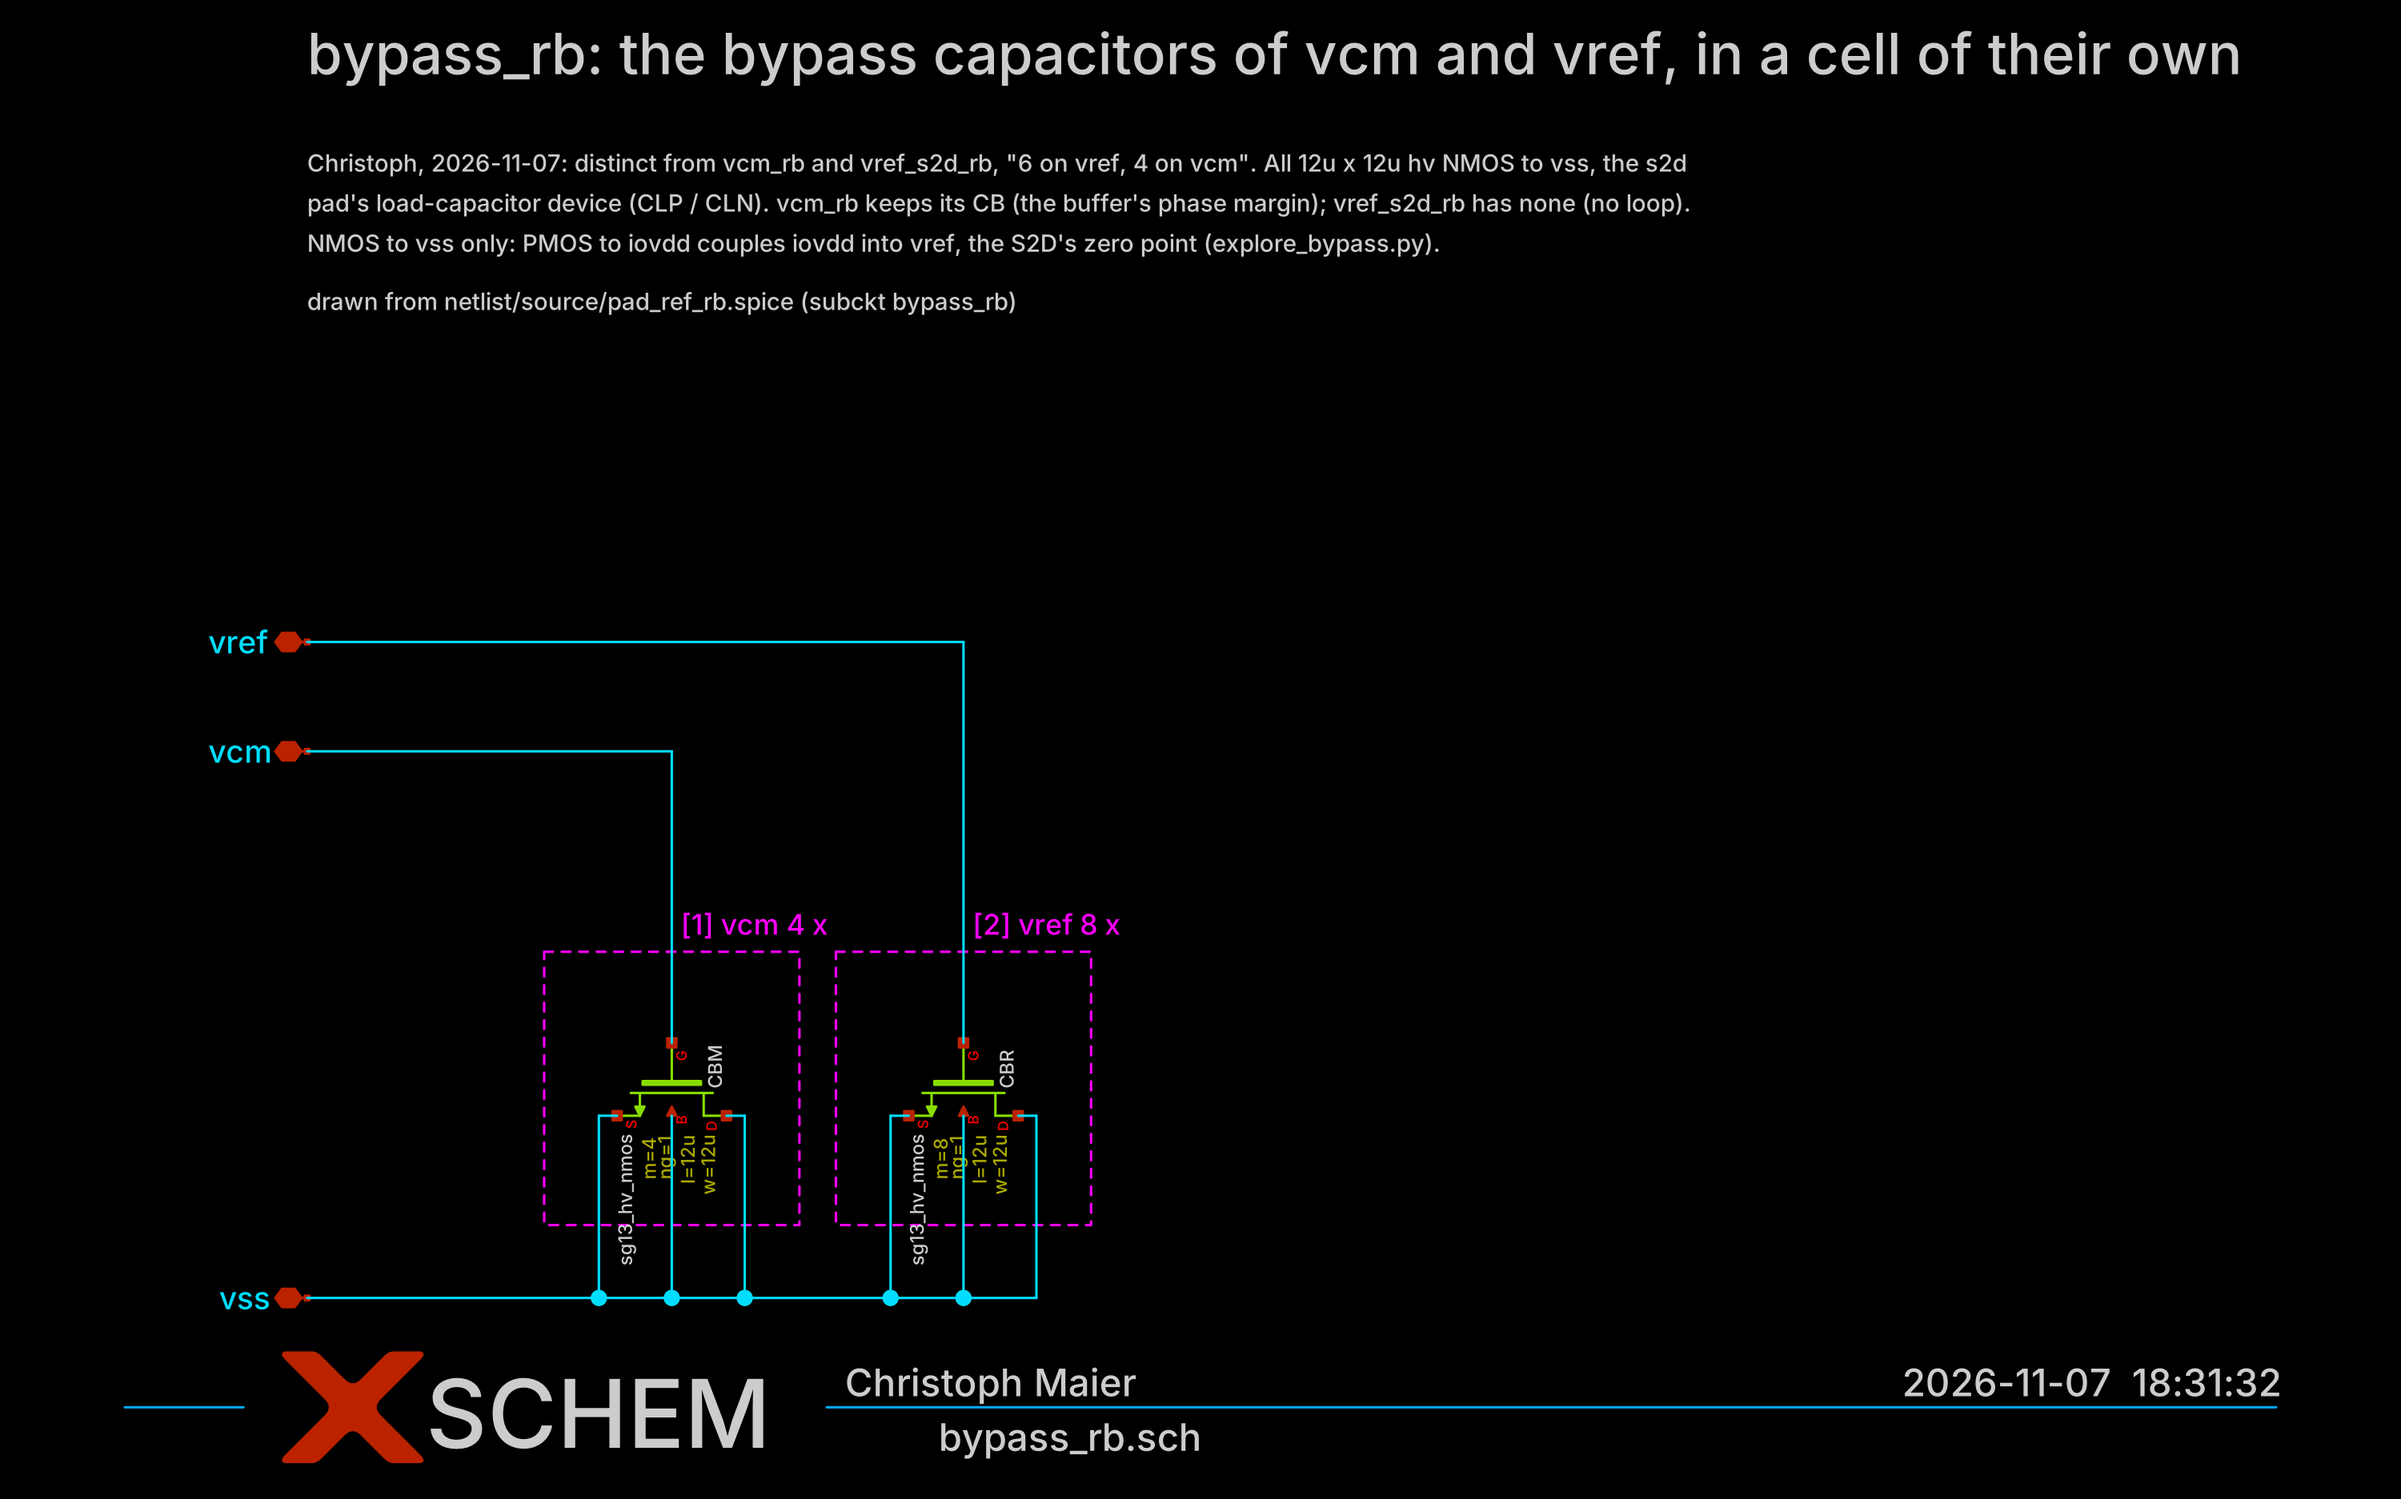
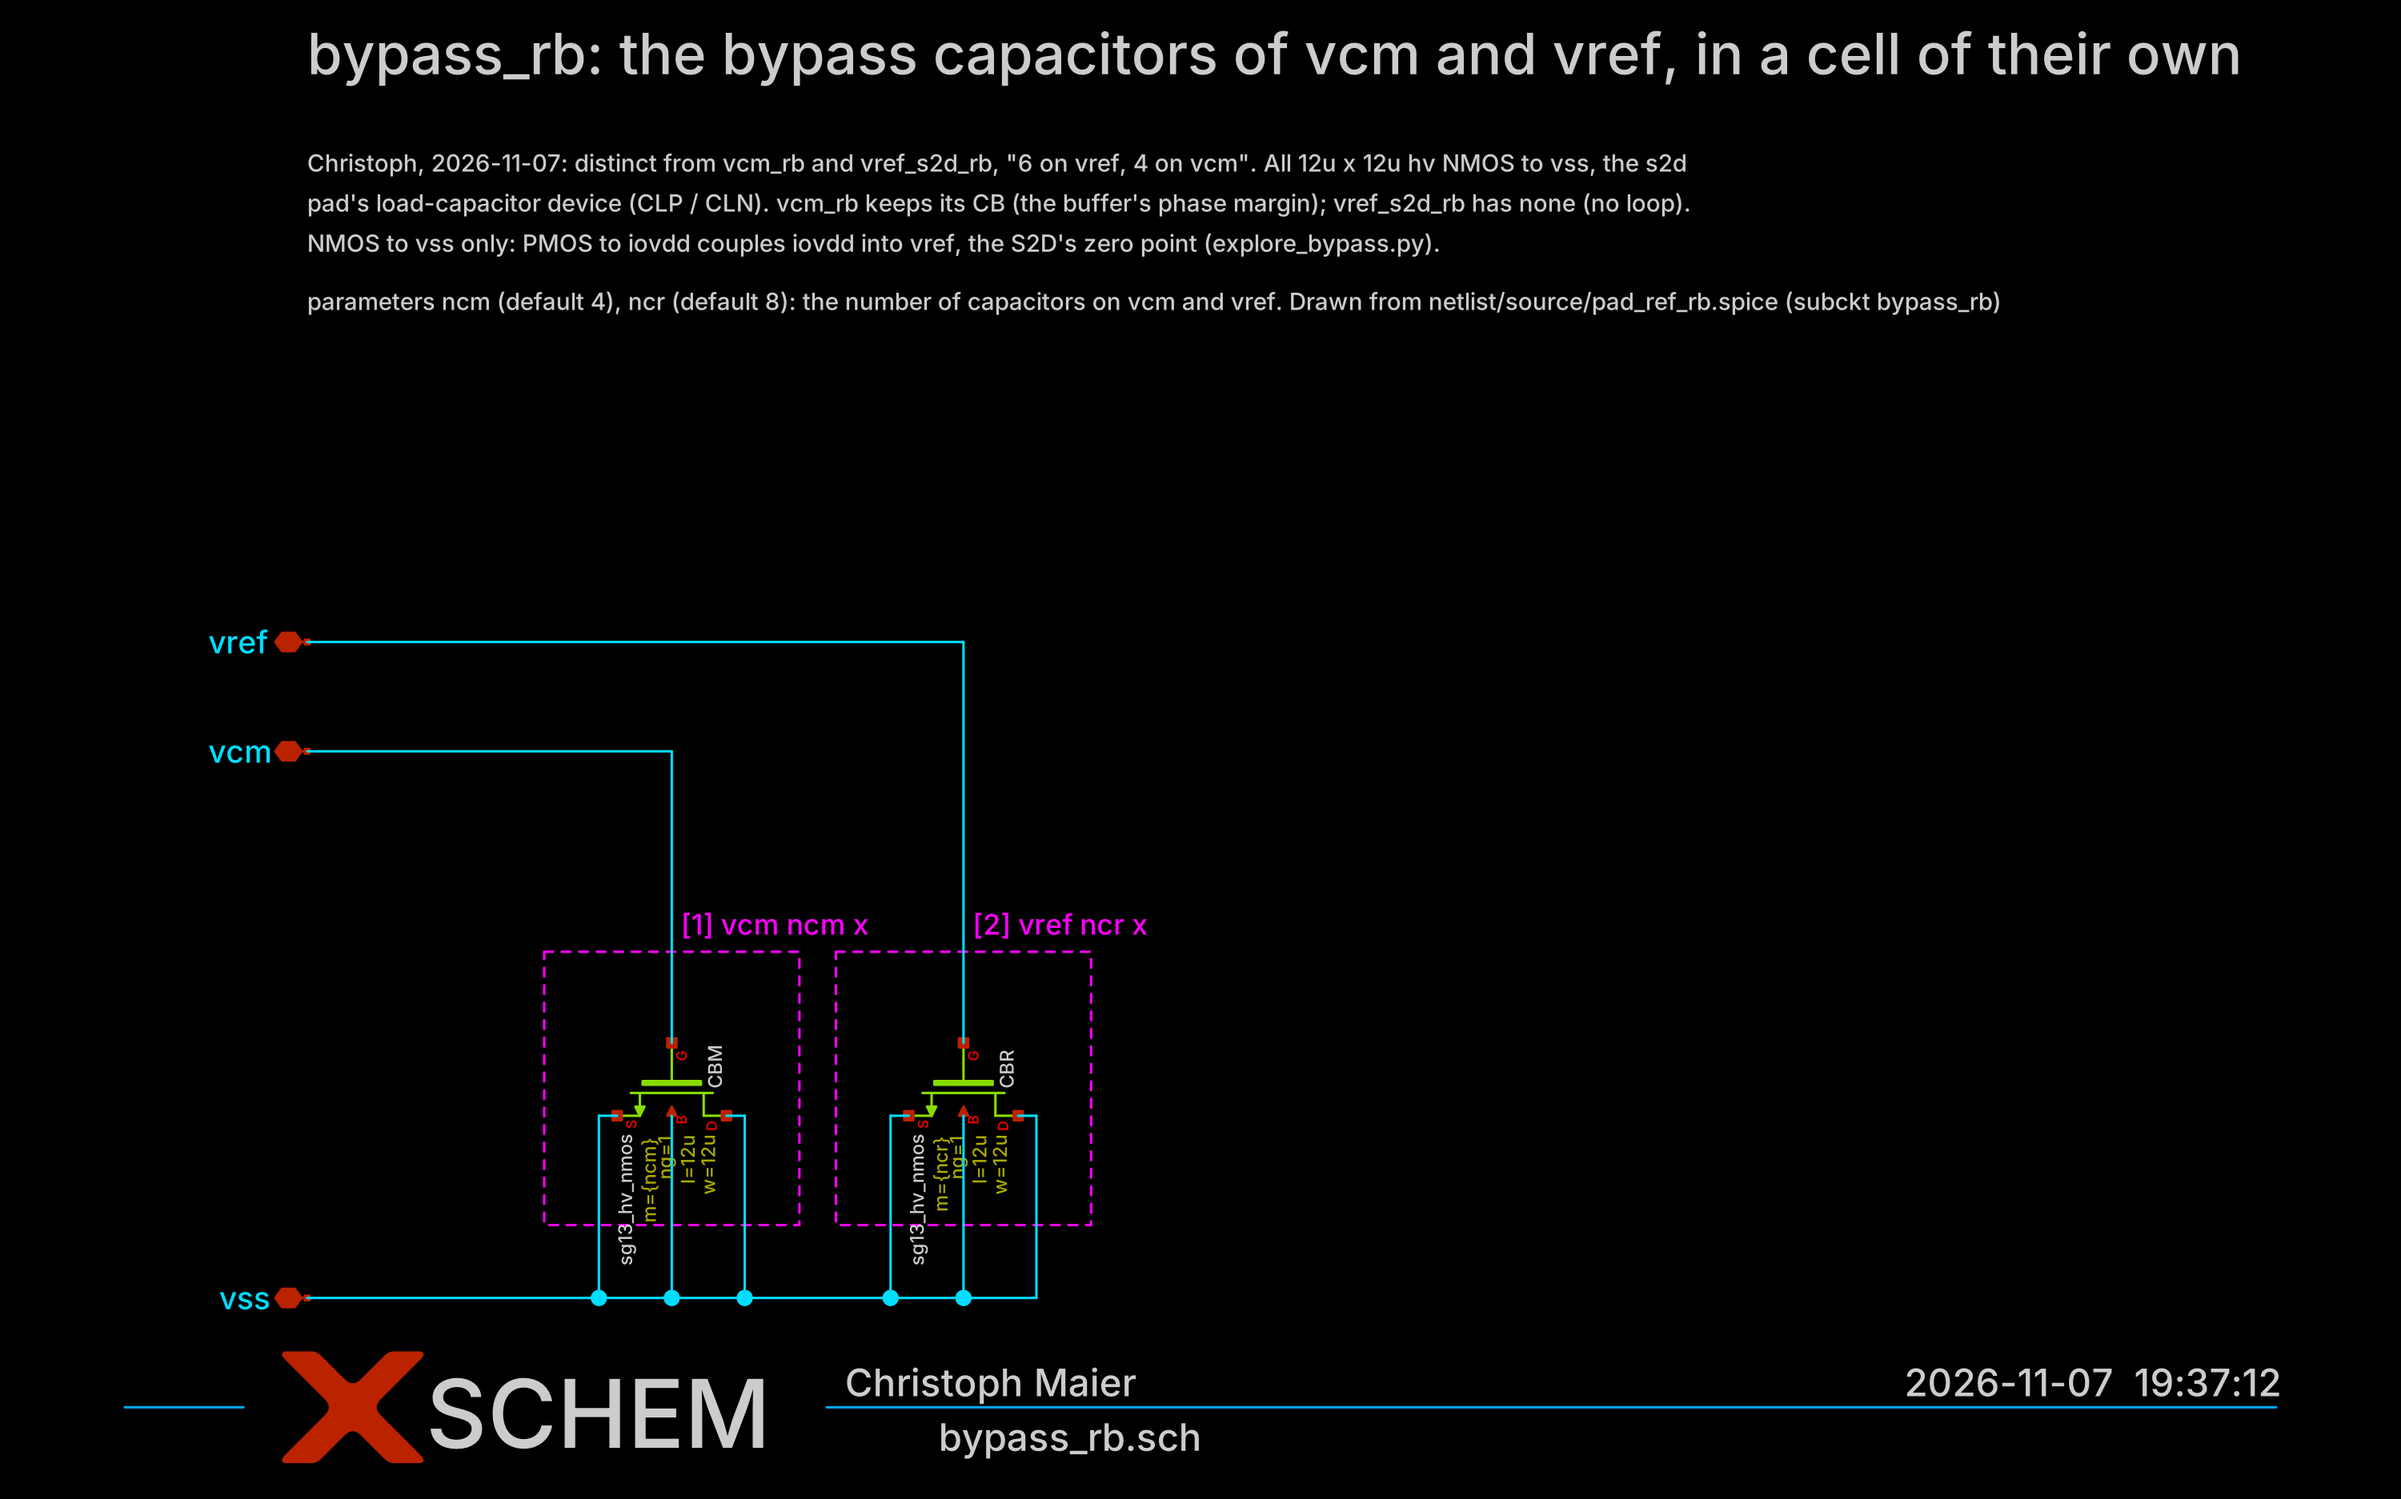
bypass_rb: parametric array (ncm, ncr = number of capacitors on vcm / vref; defaults 4, 8)
Christoph: "make bypass_rb a parametric array and maybe even backannotate accordingly".
Netlist .subckt bypass_rb vss vcm vref ncm=4 ncr=8 with m={ncm} / m={ncr}; Xb passes ncm=4
ncr=8. Symbol: format and template carry the parameters; sheet: m={ncm} / m={ncr}.
gen_sheet.py: subckt parameters are not ports; instances are compared with their parameters.
check-sheet: bypass_rb 2 = 2, pad_ref_rb 4 = 4 instances (with parameters), ports equal;
rb_z identical to before.

Claude-Session: https://claude.ai/code/session_01XU3KH9LkJUXwr5yuksqCZG

Changed region(s): [[0.124, 0.1857, 0.837, 0.2166], [0.806, 0.8975, 0.93, 0.9285]]

diff --git a/macros/vcm_rb/schematic/gen_sheet.py b/macros/vcm_rb/schematic/gen_sheet.py
@@ -18,7 +18,7 @@ def parse(src, sub):
     lines, inside, ports, devs, group, notes = open(src).read().splitlines(), False, [], [], "", []
     for l in lines:
         if l.lower().startswith(f".subckt {sub.lower()} "):
-            inside, ports = True, l.split()[2:]
+            inside, ports = True, [t for t in l.split()[2:] if "=" not in t]  # subckt parameters are not ports
             continue
         if not inside:
             if l.startswith("*") and not l.startswith("* SPDX"):
@@ -108,8 +108,8 @@ def instances(text, sub):
         if inside and l.lower().startswith(".ends"):
             break
         t = l.split()
-        if inside and t and t[0][:1] in "Xx" and not DEV.match(l) and not any("=" in x for x in t):
-            out[t[0].upper()] = tuple(t[1:])
+        if inside and t and t[0][:1] in "Xx" and not DEV.match(l):
+            out[t[0].upper()] = tuple(t[1:])  # nets, cell and any parameters (name=value) in order
     return out
 
 
@@ -124,7 +124,7 @@ def check(src, sub, net):
     for l in text.splitlines():
         l = l[2:] if l.startswith("**.") else l
         if l.lower().startswith(f".subckt {sub.lower()} "):
-            inside, gports = True, l.split()[2:]
+            inside, gports = True, [t for t in l.split()[2:] if "=" not in t]
             continue
         if inside and l.lower().startswith(".ends"):
             break
